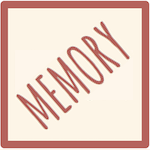
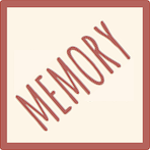
fixed scores page and fixed card back image

diff --git a/scores.js b/scores.js
@@ -1,75 +1,38 @@
 'use strict';
 
-//////////////// PLAY AREA /////////////////////
-//tableScores.rows[0].cells[0] // FUCKING IMPORTANT, THIS IS HOW YOU REFERENCE THE FUCKING CELL THAT YOU WANT.
-
 var tableScores = document.getElementById('tableScores');
-// var th;
-var tr;
-var td1;
-var td2;
 
-///////////////////// LOCAL STORAGE TESTING GROUNDS
-// var testLocalStorageNames = ['steve', 'bob', 'dope', 'another name', 'some more shit', 'boss status', 'fuck me', 'is this 10 yet', 'YAASSSS', 'Lela Star'];
-// var testLocalStorageScores = [1, 15, 45, 90, 100, 156, 212, 500, 750, 1000];
-// /////////////////////////////////////////////////////////////////
-function putScoresOnBoard(tableScores, tr, td1, td2, i) {
-  tr = document.createElement('tr');
-  tr.id = i;
-  td1 = document.createElement('td');
-  td2 = document.createElement('td');
-  var text1 = document.createTextNode(localStorageNames[i].toUpperCase());
-  var text2 = document.createTextNode(localStorageScores[i]);
-  td1.appendChild(text1);
-  td2.appendChild(text2);
-  tr.appendChild(td1);
-  tr.appendChild(td2);
-  tableScores.appendChild(tr);
-}
-
-function makeScoresChart() {
+function makeScoresChart(names, scores) {
   var tr;
   var td1;
   var td2;
-  for (var i = 0; i < 10; i++) {
-    if (i % 2 === 0) {
-      tr = document.createElement('tr');
-      putScoresOnBoard(tableScores, tr, td1, td2, i);
-    } else {
-      putScoresOnBoard(tableScores, tr, td1, td2, i);
-    }
+  for (var i = 0; i < scores.length; i++) {
+    tr = document.createElement('tr');
+    td1 = document.createElement('td');
+    td1.textContent = names[i];
+    td2 = document.createElement('td');
+    td2.textContent = scores[i];
+    tr.appendChild(td1);
+    tr.appendChild(td2);
+    tableScores.appendChild(tr);
   }
 }
-// makeScoresChart();
 
-
-/////////////////////// FROM THE LOCAL STORAGE SHIT
 var localBoardSize = JSON.parse(localStorage.getItem('boardSize'));
-var localUserName = JSON.parse(localStorage.getItem('userName'));
-
-var localStorageNames = [];
-var localStorageScores = [];
-var localStorageBoardSize = [];
 
 function renderTopTable() {
-  var i = 0;
+  var localHighScores;
+  var localHighScorers;
   if (localBoardSize === 8) {
-    while (localStorageNames.length < localUserName.length) {
-      var localHighScores4 = JSON.parse(localStorage.getItem('highScores4'));
-      localStorageNames.push(localUserName[i]);
-      localStorageScores.push(localHighScores4[i]);
-      i++;
-      makeScoresChart();
-    }
+    localHighScores = JSON.parse(localStorage.getItem('highScores4'));
+    localHighScorers = JSON.parse(localStorage.getItem('highScorers4'));
   } else {
-    while (localStorageNames.length < localUserName.length) {
-      var localHighScores6 = JSON.parse(localStorage.getItem('highScores6'));
-      localStorageNames.push(localUserName[i]);
-      localStorageScores.push(localHighScores6[i]);
-      i++;
-    }
+    localHighScores = JSON.parse(localStorage.getItem('highScores6'));
+    localHighScorers = JSON.parse(localStorage.getItem('highScorers6'));
   }
+  makeScoresChart(localHighScorers, localHighScores);
 }
+
 renderTopTable();
 
 function playGameHandler(e) {

diff --git a/style.css b/style.css
@@ -272,6 +272,24 @@ p button {
   float: none;
 }
 
+button {
+  opacity:0.6;
+  transition:opacity .3s linear;
+  font-family: sans-serif;
+  font-weight: bolder;
+  font-size: 30px;
+  border-radius: 35px;
+  border: none;
+  color: black;
+  background-color: #B33E3E;
+  padding: 10px 15px;
+  margin-top: 5%;
+  margin-left: 0 auto;
+  margin-bottom: 30px;
+  cursor: pointer;
+}
+
+
 #ready-to-play:hover {
   background: #888;
   color:black;
@@ -307,7 +325,7 @@ p button:hover {
   /*background: #888;*/
   color:black;
   opacity: 2;
-
+}
 
 #gameBoard {
   margin-left: auto;

diff --git a/scores.css b/scores.css
@@ -41,6 +41,25 @@ td {
   background-color: #FFD700;
 }
 
+div button {
+  width: 300px;
+  opacity:0.6;
+  transition:opacity .3s linear;
+  font-family: sans-serif;
+  font-weight: bolder;
+  font-size: 30px;
+  border-radius: 35px;
+  border: none;
+  color: black;
+  background-color: #B33E3E;
+  padding: 10px 15px;
+  margin-top: 5%;
+  margin-left: 50%;
+  margin-right: 50%;
+  margin-bottom: 30px;
+  cursor: pointer;
+}
+
 /*
 .container{
 	width: 40%;

diff --git a/scores.html b/scores.html
@@ -16,7 +16,7 @@
              <table id="tableScores"></table>
         <div class="rocket"></div>
     </div>
-    <button type="button" id="play-again">Play Again?</button>
+    <div><button type="button" id="play-again">PLAY AGAIN</button></div>
     <script src="scores.js"></script>
   </body>
 </html>
